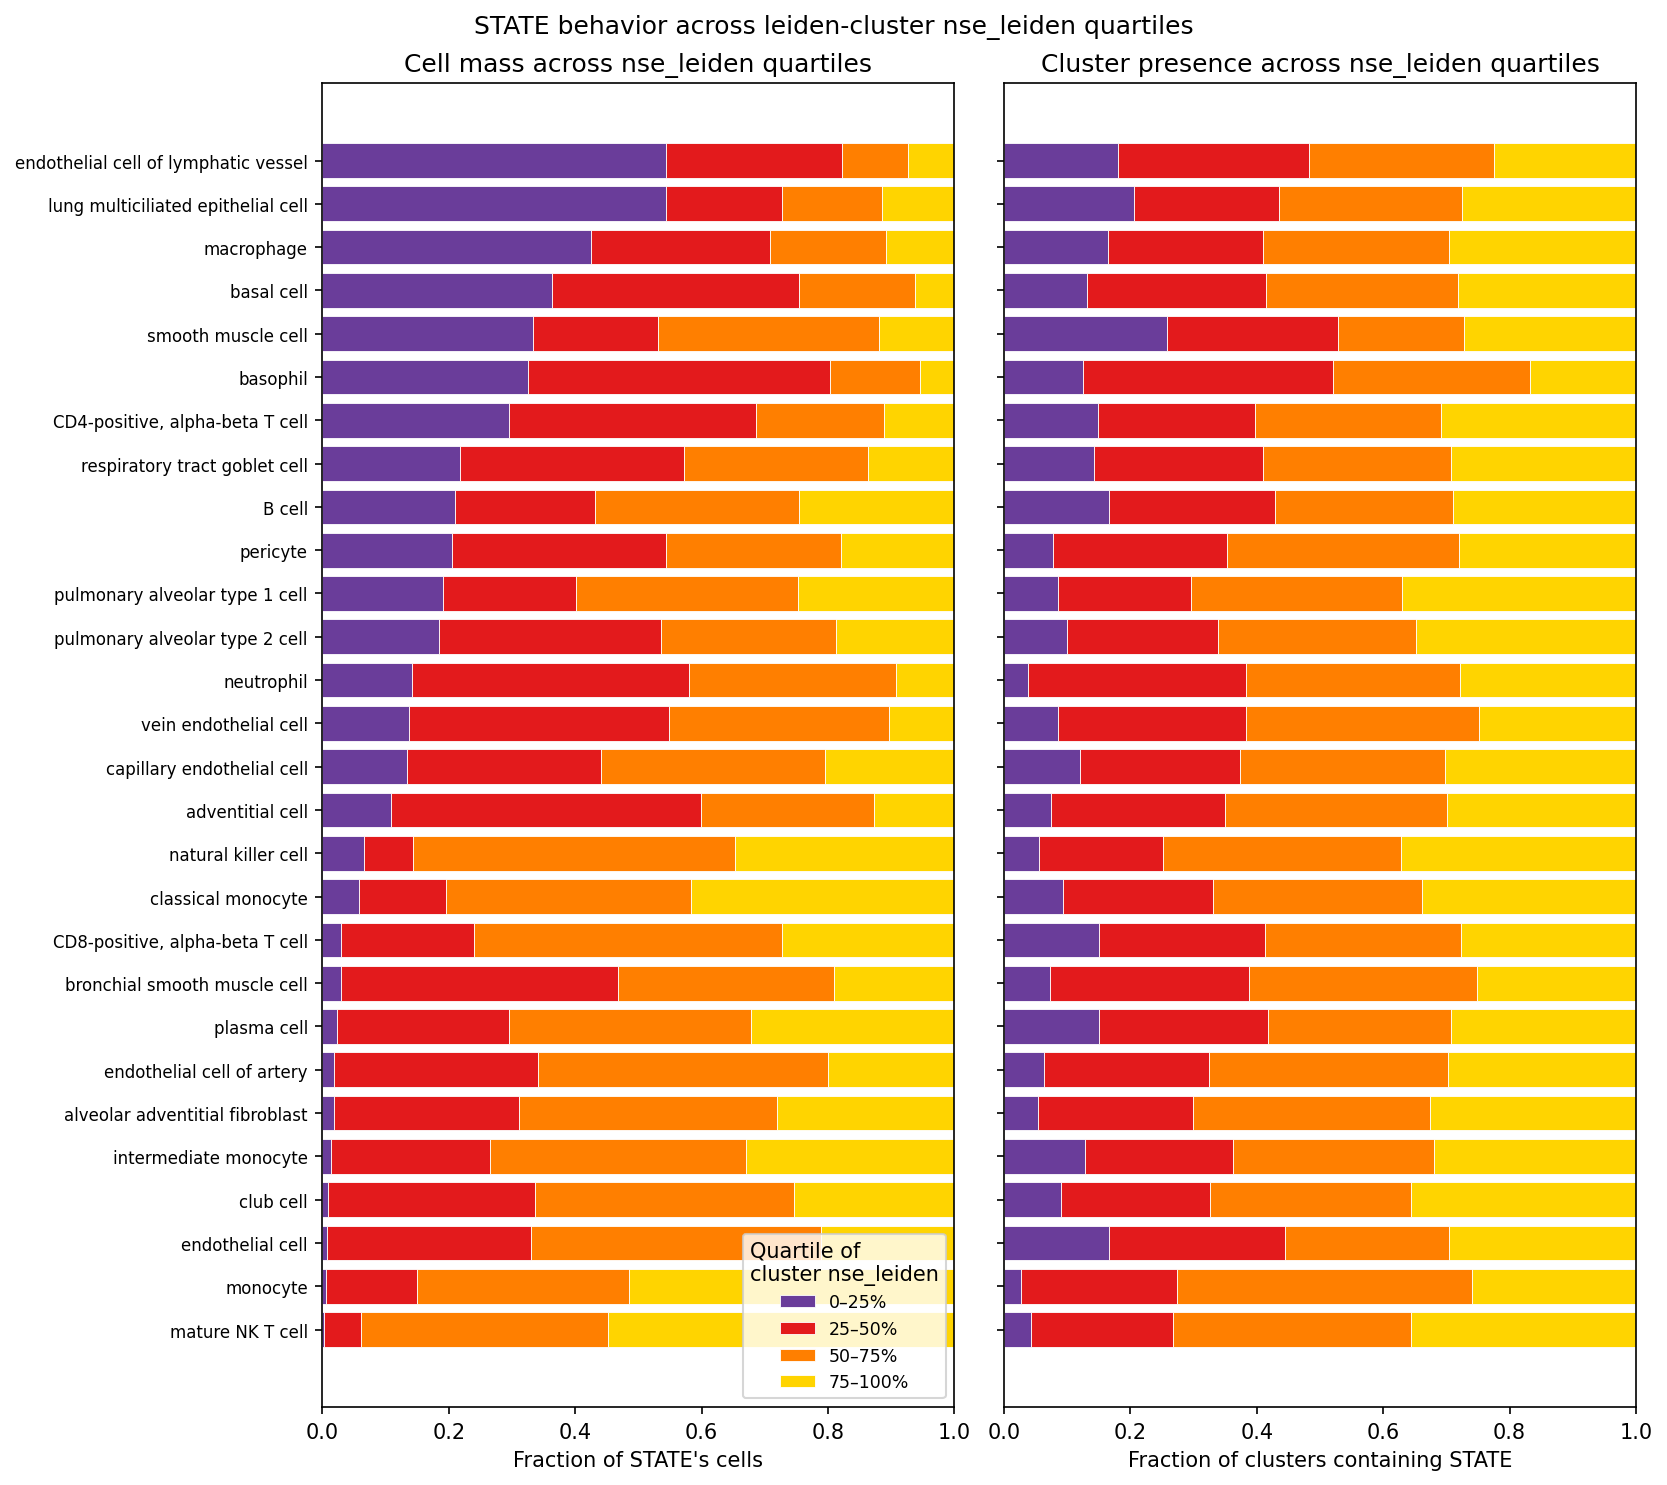
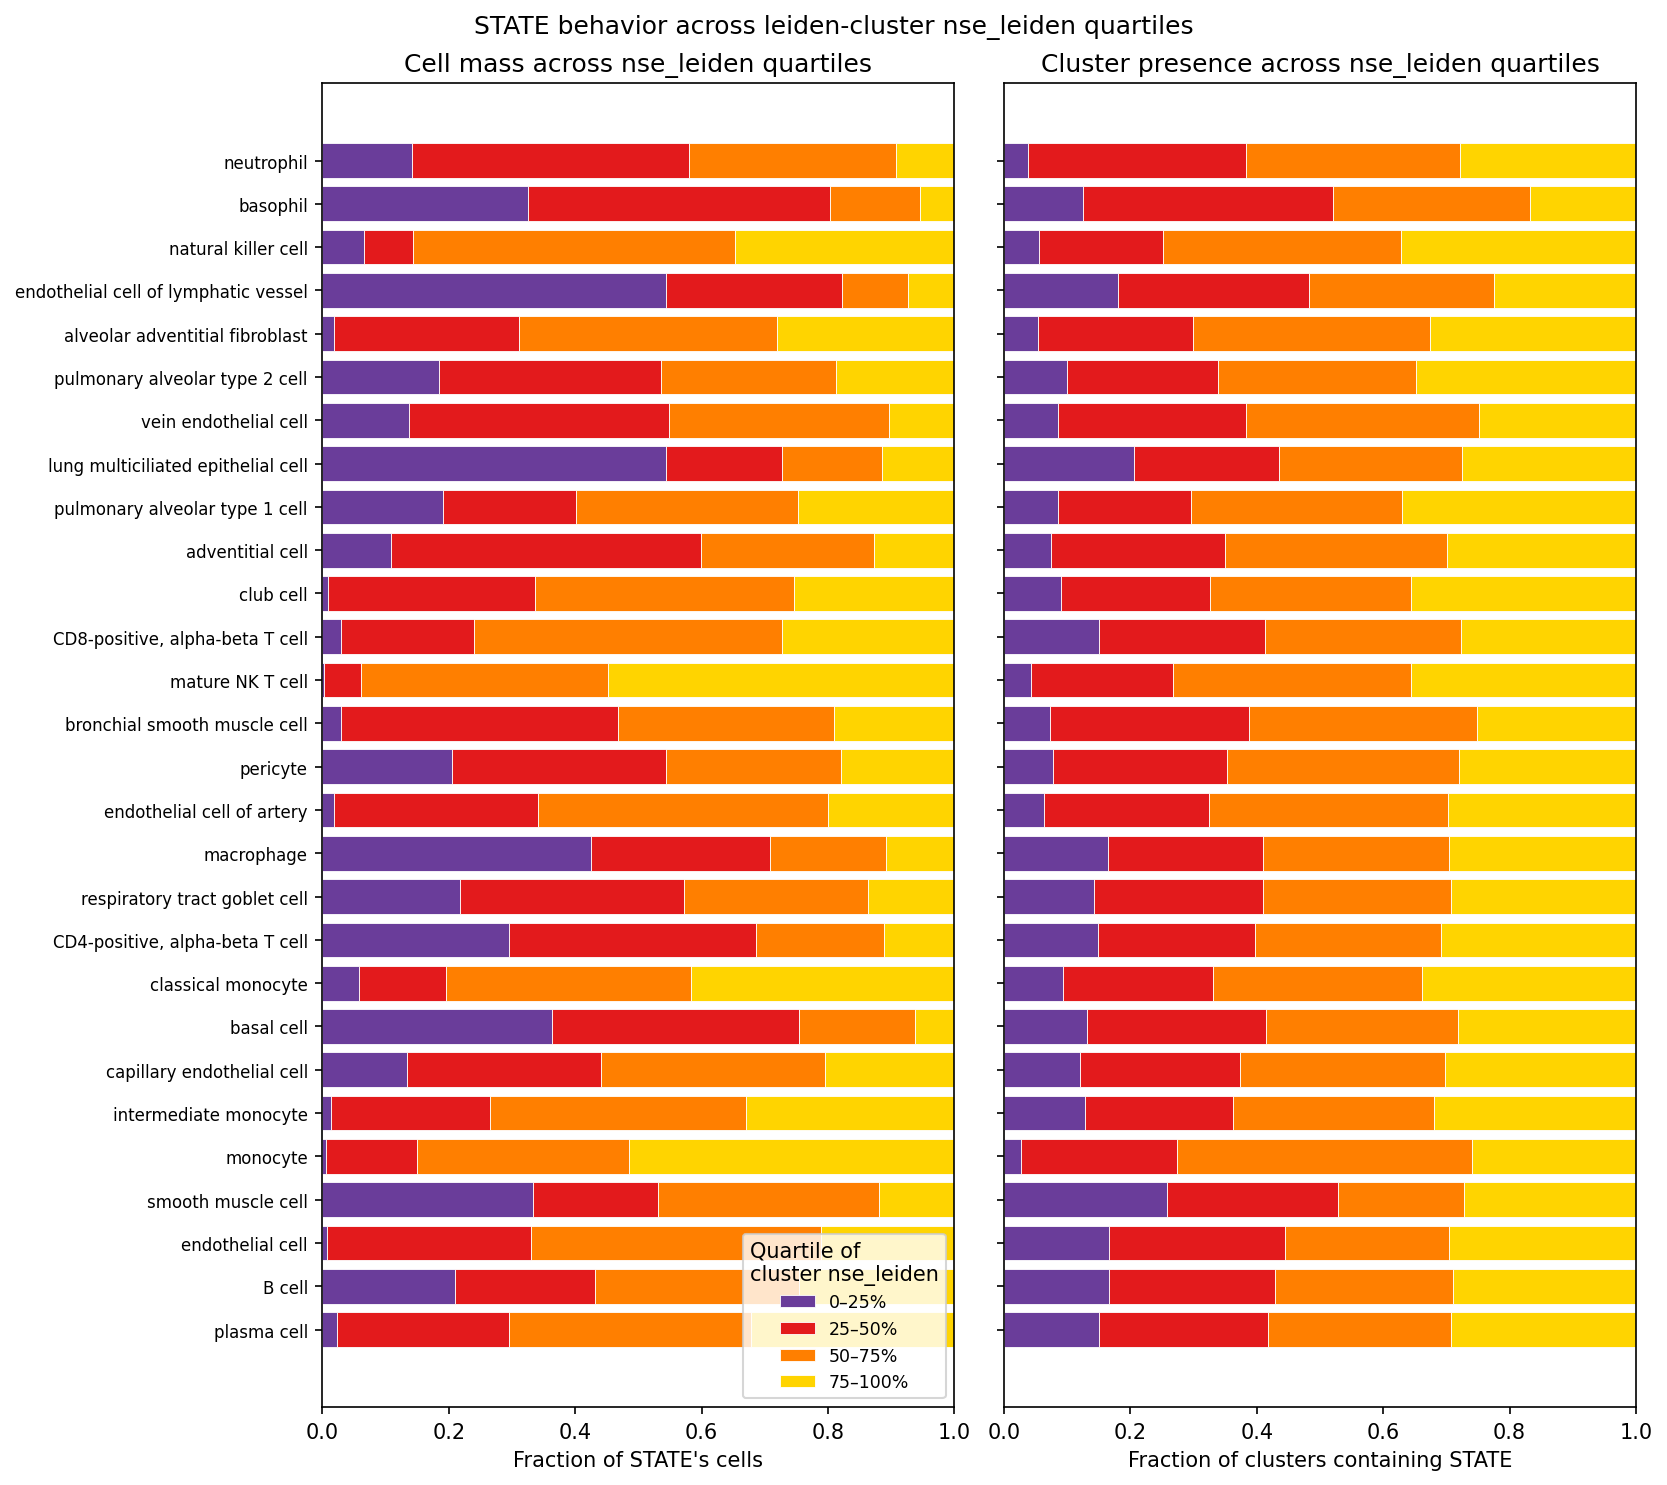
align quartile bars y-axis with nse_STATE median order, flesh out state_vs_leiden writeup
Sort the per-STATE quartile bar plot by order_median so its y-axis
matches the top boxplot in figure 2. In the README, fill in short
figure captions, expand the figure 2 discussion to address the
distribution of nse_STATE medians across STATEs (including a note that
NSE normalization is per measurement and does not force a continuum),
and add a conclusion section that ties the three figures together.

diff --git a/writeups/state_vs_leiden/state_vs_leiden.py b/writeups/state_vs_leiden/state_vs_leiden.py
@@ -386,75 +386,6 @@ df_wmean
 
 # %%
 ds
-
-# %% [markdown]
-# ## STATE behavior across leiden-cluster nse_leiden quartiles
-
-# %%
-bin_names = ["q1", "q2", "q3", "q4"]
-quartile_labels = ["0–25%", "25–50%", "50–75%", "75–100%"]
-palette = ["#6a3d9a", "#e31a1c", "#ff7f00", "#ffd400"]
-
-cell_mass_per_bin = []
-for bin_idx in range(len(bin_names)):
-    mask = ds.nse_leiden_bin == bin_idx
-    cells_in_bin = ds.cell_count.where(mask, 0).sum(dim=("accession", "leiden_cluster"))
-    cell_mass_per_bin.append(cells_in_bin)
-cell_mass = xr.concat(cell_mass_per_bin, dim=pd.Index(bin_names, name="bin"))
-total_cells_per_state = ds.cell_count.sum(dim=("accession", "leiden_cluster"))
-cell_share = (cell_mass / total_cells_per_state).fillna(0).to_pandas().T
-
-has_state = ds.cell_count > 0
-clusters_per_bin = []
-for bin_idx in range(len(bin_names)):
-    mask = ds.nse_leiden_bin == bin_idx
-    present_in_bin = (has_state & mask).sum(dim=("accession", "leiden_cluster"))
-    clusters_per_bin.append(present_in_bin)
-cluster_counts = xr.concat(clusters_per_bin, dim=pd.Index(bin_names, name="bin"))
-total_clusters_per_state = has_state.sum(dim=("accession", "leiden_cluster"))
-cluster_share = (cluster_counts / total_clusters_per_state).fillna(0).to_pandas().T
-
-cell_share = cell_share.loc[cell_share.index.intersection(KEPT_STATES)]
-cluster_share = cluster_share.loc[cluster_share.index.intersection(KEPT_STATES)]
-state_order = cell_share.sort_values(bin_names[0], ascending=False).index.tolist()
-cell_share = cell_share.loc[state_order]
-cluster_share = cluster_share.loc[state_order]
-
-n_states = len(state_order)
-fig, (ax_cell, ax_clu) = plt.subplots(
-    1,
-    2,
-    figsize=(11, max(6, n_states * 0.35)),
-    layout="constrained",
-    sharey=True,
-)
-y_base = np.arange(n_states)
-
-left = np.zeros(n_states)
-for name, label, color in zip(bin_names, quartile_labels, palette, strict=True):
-    ax_cell.barh(y_base, cell_share[name].values, left=left, color=color, edgecolor="white", linewidth=0.4, label=label)
-    left += cell_share[name].values
-ax_cell.set_xlim(0, 1)
-ax_cell.set_xlabel("Fraction of STATE's cells")
-ax_cell.set_title("Cell mass across nse_leiden quartiles")
-ax_cell.legend(fontsize="small", loc="lower right", title="Quartile of\ncluster nse_leiden")
-
-left = np.zeros(n_states)
-for name, color in zip(bin_names, palette, strict=True):
-    ax_clu.barh(y_base, cluster_share[name].values, left=left, color=color, edgecolor="white", linewidth=0.4)
-    left += cluster_share[name].values
-ax_clu.set_xlim(0, 1)
-ax_clu.set_xlabel("Fraction of clusters containing STATE")
-ax_clu.set_title("Cluster presence across nse_leiden quartiles")
-
-ax_cell.set_yticks(y_base)
-ax_cell.set_yticklabels(state_order, fontsize=8)
-ax_cell.invert_yaxis()
-
-fig.suptitle("STATE behavior across leiden-cluster nse_leiden quartiles", fontsize=12)
-fig.savefig(FIGS_DIR / "state_behavior_across_nse_quartiles.png", dpi=150, bbox_inches="tight")
-plt.show()
-
 # %% [markdown]
 # ### Distribution of `nse_STATE` per STATE across accessions
 #
@@ -532,6 +463,75 @@ fig.suptitle("Normalized Shannon entropy (NSE) by STATE")
 
 fig.savefig(FIGS_DIR / "nse_state_by_state_boxplots.png", dpi=150, bbox_inches="tight")
 plt.tight_layout()
+
+# %% [markdown]
+# ## STATE behavior across leiden-cluster nse_leiden quartiles
+
+# %%
+bin_names = ["q1", "q2", "q3", "q4"]
+quartile_labels = ["0–25%", "25–50%", "50–75%", "75–100%"]
+palette = ["#6a3d9a", "#e31a1c", "#ff7f00", "#ffd400"]
+
+cell_mass_per_bin = []
+for bin_idx in range(len(bin_names)):
+    mask = ds.nse_leiden_bin == bin_idx
+    cells_in_bin = ds.cell_count.where(mask, 0).sum(dim=("accession", "leiden_cluster"))
+    cell_mass_per_bin.append(cells_in_bin)
+cell_mass = xr.concat(cell_mass_per_bin, dim=pd.Index(bin_names, name="bin"))
+total_cells_per_state = ds.cell_count.sum(dim=("accession", "leiden_cluster"))
+cell_share = (cell_mass / total_cells_per_state).fillna(0).to_pandas().T
+
+has_state = ds.cell_count > 0
+clusters_per_bin = []
+for bin_idx in range(len(bin_names)):
+    mask = ds.nse_leiden_bin == bin_idx
+    present_in_bin = (has_state & mask).sum(dim=("accession", "leiden_cluster"))
+    clusters_per_bin.append(present_in_bin)
+cluster_counts = xr.concat(clusters_per_bin, dim=pd.Index(bin_names, name="bin"))
+total_clusters_per_state = has_state.sum(dim=("accession", "leiden_cluster"))
+cluster_share = (cluster_counts / total_clusters_per_state).fillna(0).to_pandas().T
+
+cell_share = cell_share.loc[cell_share.index.intersection(KEPT_STATES)]
+cluster_share = cluster_share.loc[cluster_share.index.intersection(KEPT_STATES)]
+state_order = [s for s in order_median if s in cell_share.index]
+cell_share = cell_share.loc[state_order]
+cluster_share = cluster_share.loc[state_order]
+
+n_states = len(state_order)
+fig, (ax_cell, ax_clu) = plt.subplots(
+    1,
+    2,
+    figsize=(11, max(6, n_states * 0.35)),
+    layout="constrained",
+    sharey=True,
+)
+y_base = np.arange(n_states)
+
+left = np.zeros(n_states)
+for name, label, color in zip(bin_names, quartile_labels, palette, strict=True):
+    ax_cell.barh(y_base, cell_share[name].values, left=left, color=color, edgecolor="white", linewidth=0.4, label=label)
+    left += cell_share[name].values
+ax_cell.set_xlim(0, 1)
+ax_cell.set_xlabel("Fraction of STATE's cells")
+ax_cell.set_title("Cell mass across nse_leiden quartiles")
+ax_cell.legend(fontsize="small", loc="lower right", title="Quartile of\ncluster nse_leiden")
+
+left = np.zeros(n_states)
+for name, color in zip(bin_names, palette, strict=True):
+    ax_clu.barh(y_base, cluster_share[name].values, left=left, color=color, edgecolor="white", linewidth=0.4)
+    left += cluster_share[name].values
+ax_clu.set_xlim(0, 1)
+ax_clu.set_xlabel("Fraction of clusters containing STATE")
+ax_clu.set_title("Cluster presence across nse_leiden quartiles")
+
+ax_cell.set_yticks(y_base)
+ax_cell.set_yticklabels(state_order, fontsize=8)
+ax_cell.invert_yaxis()
+
+fig.suptitle("STATE behavior across leiden-cluster nse_leiden quartiles", fontsize=12)
+fig.savefig(FIGS_DIR / "state_behavior_across_nse_quartiles.png", dpi=150, bbox_inches="tight")
+plt.show()
+
 
 # %%
 state = "plasma cell"

diff --git a/writeups/state_vs_leiden/README.md b/writeups/state_vs_leiden/README.md
@@ -12,26 +12,44 @@ Analysis script: [state_vs_leiden.py](state_vs_leiden.py).
 
 ![KDE of STATE-mixing NSE by cluster-size quartile](.figs/nse_leiden_kde_by_size_quartile.png)
 
+Figure 1. KDE of within-cluster STATE-label NSE (`nse_leiden`), split by log2(Leiden cluster size) quartile.
 
-KDE of STATE-mixing NSE (normalized Shannon entropy) within each Leiden cluster, split by log2(cluster size) quartile. The distribution of NSE is consistent across Leiden cluster quartiles, suggesting that the number of cells in a Leiden cluster does not influence the entropy of STATE labels in the cluster. Nonetheless, larger Leiden clusters appear to exhibit low STATE label entropy than small Leiden clusters, as shown by the clear separation by quartile of the KDE at low NSE. This suggests that on the whole, a large Leiden cluster may be less likely to contain evenly mixed STATE labels than a small Leiden cluster.
-
-## Distribution of `nse_STATE` shifts with cluster `nse_leiden` quartile
-
-![KDE of nse_STATE grouped by cluster nse_leiden quartile](.figs/nse_state_kde_by_nse_leiden_quartile.png)
-
-KDE of `nse_STATE` for STATE-by-accession pairs, grouped by the `nse_leiden` quartile of the Leiden clusters they appear in. STATEs with fewer than 7 non-empty accessions are excluded, matching the filter used in the per-STATE figures below. Quartile colors match the cluster-size KDE above so the four bands are read the same way: lowest quartile in purple, highest in yellow.
-
+The distribution of NSE is consistent across Leiden cluster quartiles, suggesting that the number of cells in a Leiden cluster does not influence the entropy of STATE labels in the cluster. Nonetheless, larger Leiden clusters appear to exhibit low STATE label entropy than small Leiden clusters, as shown by the clear separation by quartile of the KDE at low NSE. This suggests that on the whole, a large Leiden cluster may be less likely to contain evenly mixed STATE labels than a small Leiden cluster.
 
 ## Two complementary views on STATE-Leiden agreement
 
-The next two figures are both organized one row per STATE, but they pivot on different entropies and answer different questions.
+The next two figures are both organized one row per STATE, but they pivot on different entropies and answer different questions. STATE labels represented in fewer than 7 datasets are not shown.
 
 ![Per-STATE distribution of nse_STATE across accessions](.figs/nse_state_by_state_boxplots.png)
 
-Per-STATE distribution of `nse_STATE` (entropy across Leiden clusters within a single accession), one observation per accession, sorted by median (top) and variance (bottom) and colored by cell category. A STATE with low median NSE and low variance, like neutrophils or basophils, consistently concentrates in only a few Leiden clusters across accessions. That makes the STATE easy for a clustering-based annotator to "find", provided the cluster it ends up in is also dominated by it.
+Figure 2. Per-STATE distribution of `nse_STATE` (entropy across Leiden clusters within a single accession), one observation per accession, sorted by median (top) and variance (bottom) and colored by cell category. 
+
+A STATE with low median NSE and low variance, like neutrophils or basophils, consistently concentrates in only a few Leiden clusters across accessions. That makes the STATE easy for a clustering-based annotator to "find", provided the cluster it ends up in is also dominated by it.
+
+At the other extreme, some STATE labels sit at consistently high NSE in every accession: their cells are spread broadly across Leiden clusters in every dataset where they appear. This is the pattern expected of STATE labels that bundle several transcriptionally distinct populations under one umbrella, or whose expression signature overlaps with that of co-occurring STATEs. Leiden does not isolate these labels in any single accession, so a CyteType call on any of the clusters they touch will reflect whichever subpopulation or co-occurring STATE dominates locally.
+
+The normalization in NSE applies to each individual measurement, not to the distribution of medians across STATEs. In principle, every STATE could have a median near zero (every label consistently concentrated in a few Leiden clusters) or every STATE could have a median near one (every label consistently spread across many clusters). What we see instead is a continuum: some STATE labels are reliably well-isolated by Leiden, others are reliably mixed in with other STATEs, and many sit somewhere in between. The most natural reading is that STATE labels in this collection are not all at the same biological granularity: some name a tight, transcriptionally coherent population that Leiden picks out, others act as broad bins that Leiden splits across several clusters.
+
+The variance panel layers a second axis on top of this: low variance means a STATE behaves the same way in every accession (uniformly concentrated or uniformly spread), high variance means its placement in the clustering shifts with the dataset, which is consistent with accession-specific composition, tissue context, or batch effects influencing where its cells land.
 
 ![Per-STATE cell and cluster shares across nse_leiden quartiles](.figs/state_behavior_across_nse_quartiles.png)
 
-Per-STATE share of cells (left) and Leiden clusters (right) that fall in each `nse_leiden` quartile, sorted by share of cells in the lowest quartile. A STATE near the top sits in Leiden clusters that are dominated by a single STATE label, so a program like CyteType, which only sees the cluster-level expression, has a clear signal to work with. A STATE near the bottom sits in mixed clusters, and CyteType may be "blind" to it because the cluster's expression is driven by whichever STATE dominates that mix.
+Figure 3. Per-STATE share of cells (left) and Leiden clusters (right) across `nse_leiden` quartiles, ordered by ascending median `nse_STATE` to match Figure 2 (top).
+
+Reading top to bottom, STATEs progress from concentrating within few Leiden clusters per accession to spreading across many. A STATE near the top with most of its cells in q1 sits in Leiden clusters dominated by a single STATE label, so a program like CyteType, which only sees the cluster-level expression, has a clear signal to work with. A STATE whose cells fall mostly in q3 or q4 sits in mixed clusters, and CyteType may be "blind" to it because the cluster's expression is driven by whichever STATE dominates that mix.
+
+There is no clear vertical gradient in Figure 3: a STATE's median `nse_STATE` does not predict the `nse_leiden` quartiles of the Leiden clusters its cells occupy. Concentrating within few Leiden clusters per accession (low `nse_STATE`) does not imply that those clusters are themselves dominated by a single STATE (low `nse_leiden`), and the two entropies should be read as complementary rather than redundant.
 
 Read together: the boxplots tell you whether a STATE *lands in few clusters*, the quartile bars tell you whether *those clusters are clean*. Both need to hold for CyteType to recover the STATE; if either fails, the STATE is at risk of being mislabelled or absorbed.
+
+## Conclusion
+
+STATE labels are not ground truth; they are weak priors used to guide clustering resolution. A STATE being mislabelled or absorbed relative to a CyteType call is not, in itself, an error to fix, because the cell-type call that is used downstream is the CyteType one. STATE-Leiden disagreement is therefore characterized here as a signal about how confidently CyteType can place a given cell population relative to how it was classified by STATE, not as a defect of either side.
+
+The three figures together provide that characterization:
+
+- Figure 1 establishes that within-cluster STATE entropy (`nse_leiden`) is largely independent of Leiden cluster size, with a modest tendency for the largest clusters to be more STATE-pure. Cluster size on its own is therefore a poor proxy for STATE-Leiden agreement.
+- Figure 2 ranks STATE labels by how concentrated they are across Leiden clusters within an accession (`nse_STATE`). STATEs at the top of the median panel (e.g. neutrophils, basophils) consistently land in a few clusters across accessions; STATE labels further down the panel consistently spread across many Leiden clusters. NSE is normalized per measurement, so a continuum of medians is not a foregone conclusion: the medians could all be near zero or all near one. The fact that they instead span the full range suggests STATE labels here are not at uniform biological granularity, with some naming a tight cell type that Leiden isolates and others acting as broad bins that Leiden splits across many clusters.
+- Figure 3, ordered to match the top panel of Figure 2, shows where the cells of each STATE land along the `nse_leiden` axis. The absence of a vertical gradient confirms that being concentrated (low `nse_STATE`) does not imply being in clean clusters (low `nse_leiden`); the two entropies have to be checked together.
+
+In practice, the two entropies are intended to be consulted side by side when interpreting a CyteType label. If a STATE has low `nse_STATE` (Figure 2) and most of its cells fall in q1 clusters (Figure 3), CyteType is working with a Leiden cluster that is similar to the STATE prior. If either condition fails, CyteType is working with a noisier signal for that STATE, and the resulting label should be read as an independent opinion rather than as a contradicted ground truth.
